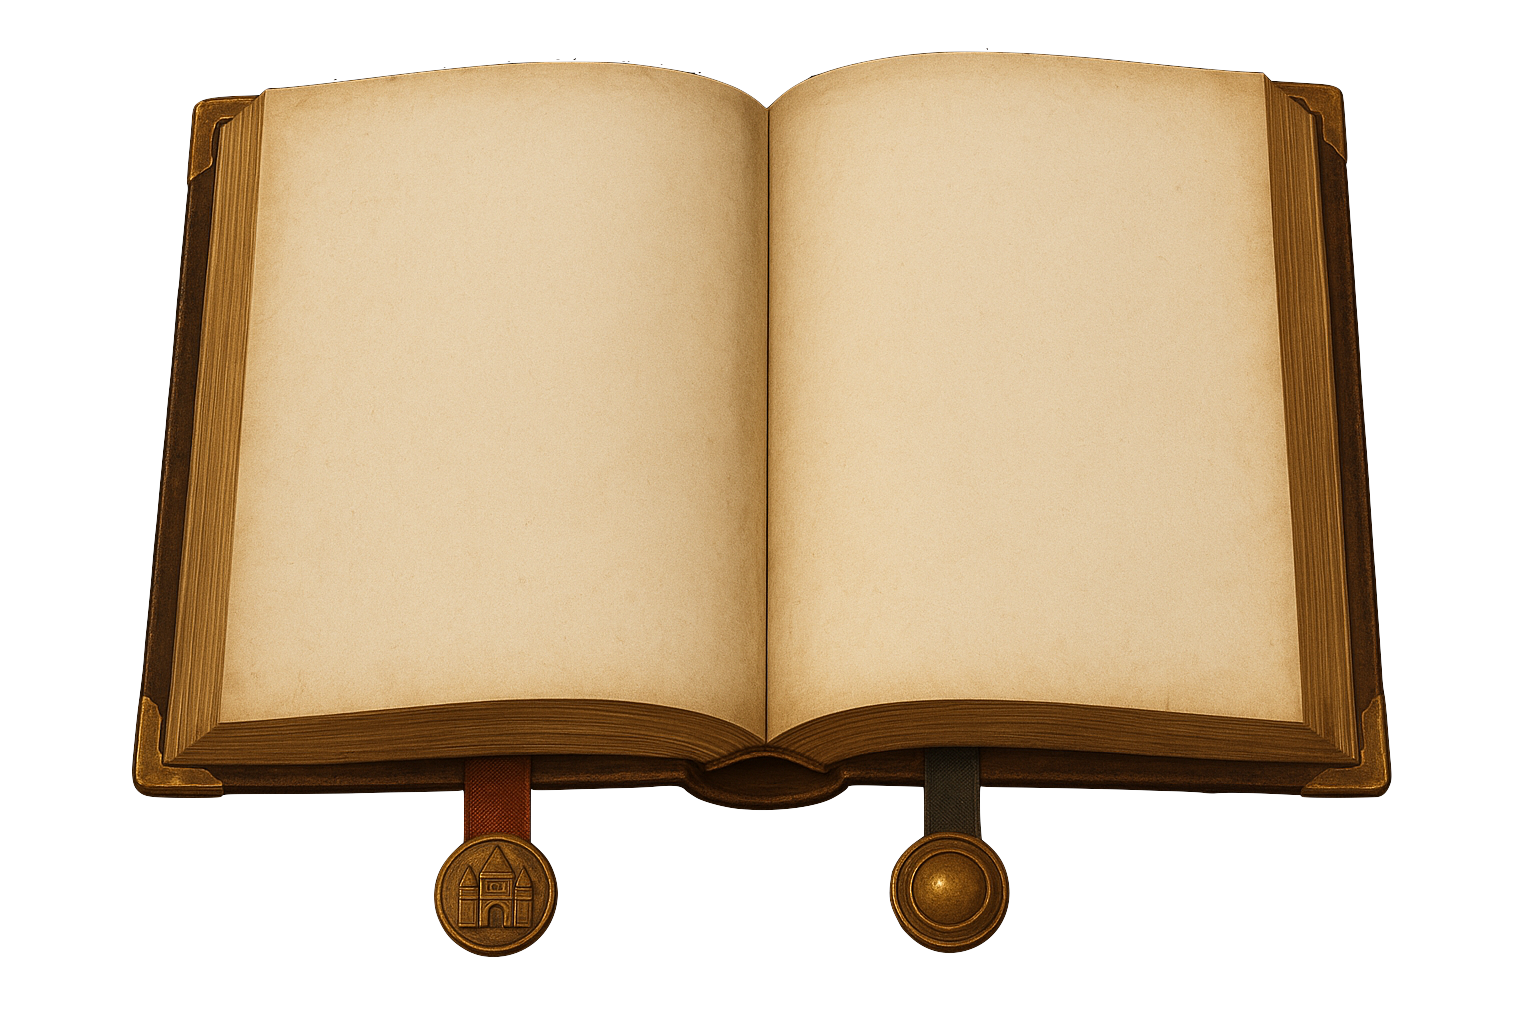
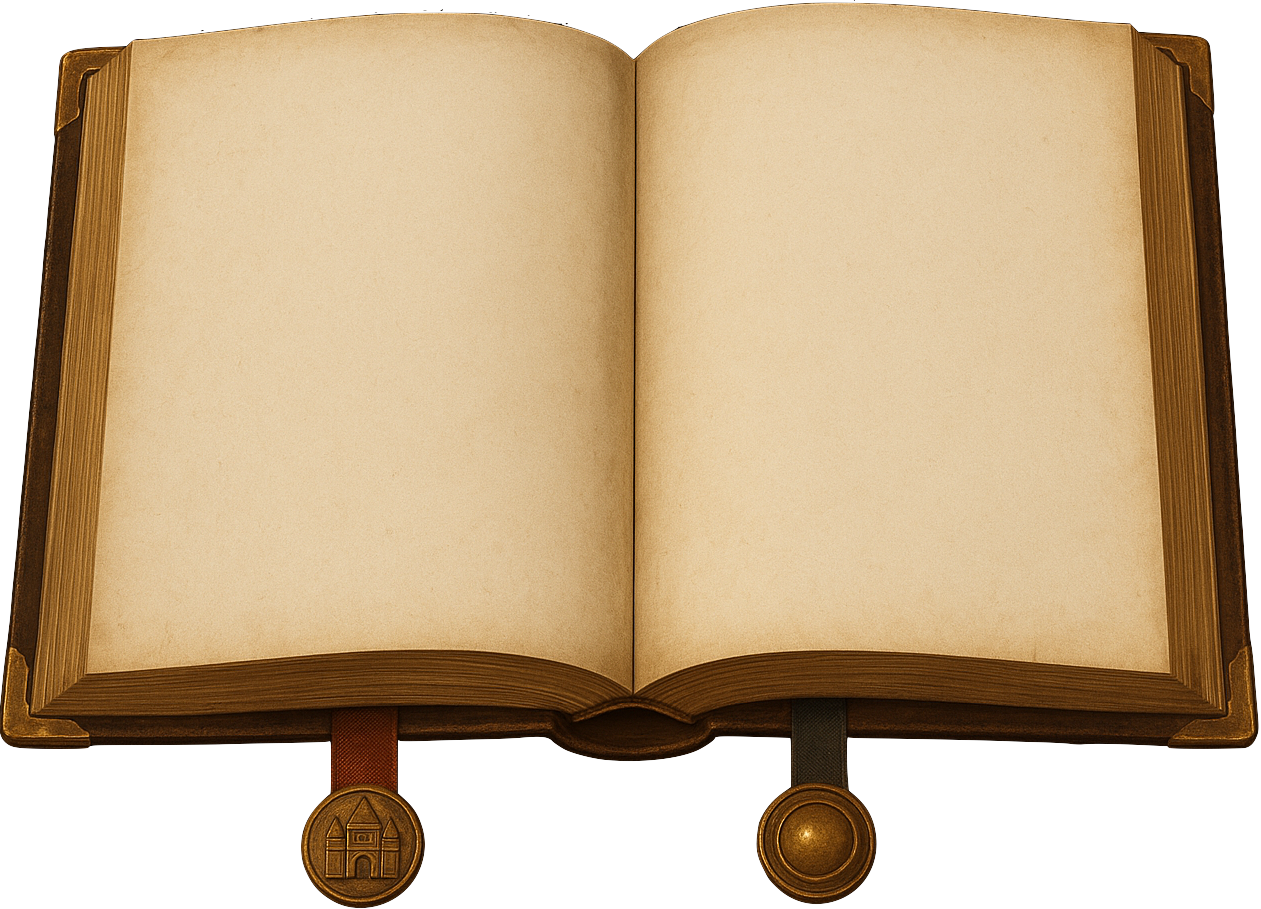
Update FlipBook component layout and styles: adjust dimensions, add container styling, and remove shadow effects

diff --git a/src/App.css b/src/App.css
@@ -1,75 +1,94 @@
 .App {
-  text-align: center;
-  background-color: gray;
-  min-height: 100vh;
-  display: flex;
-  align-items: center;
-  justify-content: center;
-  padding: 20px;
-  box-sizing: border-box;
+    text-align: center;
+    background-color: gray;
+    min-height: 100vh;
+    display: flex;
+    align-items: center;
+    justify-content: center;
+    padding: 20px;
+    box-sizing: border-box;
 }
 
 .App-logo {
-  height: 40vmin;
-  pointer-events: none;
+    height: 40vmin;
+    pointer-events: none;
 }
 
 @media (prefers-reduced-motion: no-preference) {
-  .App-logo {
-    animation: App-logo-spin infinite 20s linear;
-  }
+    .App-logo {
+        animation: App-logo-spin infinite 20s linear;
+    }
 }
 
 .App-header {
-  background-color: #282c34;
-  min-height: 100vh;
-  display: flex;
-  flex-direction: column;
-  align-items: center;
-  justify-content: center;
-  font-size: calc(10px + 2vmin);
-  color: white;
+    background-color: #282c34;
+    min-height: 100vh;
+    display: flex;
+    flex-direction: column;
+    align-items: center;
+    justify-content: center;
+    font-size: calc(10px + 2vmin);
+    color: white;
 }
 
 .App-link {
-  color: #61dafb;
+    color: #61dafb;
 }
 
 .pageStyle {
-  color: yellow;
-  padding: 20px;
-  display: flex;
-  flex-direction: column;
-  align-items: center;
-  justify-content: center;
-  font-size: 24px;
-  font-weight: bold;
-  width: 100%;
-  height: 100%;
-  box-sizing: border-box;
-  min-height: 400px;
-  background-position: center;
-  background-repeat: no-repeat;
-  background-size: cover;
-  background-color: #f4e4bc;
+    color: yellow;
+    padding-top: 30px;
+    padding-bottom: 30px;
+    display: flex;
+    flex-direction: column;
+    align-items: center;
+    justify-content: center;
+    font-size: 24px;
+    font-weight: bold;
+    width: 100%;
+    height: 100%;
+    box-sizing: border-box;
+    min-height: 370px;
+    background-position: center;
+    background-repeat: no-repeat;
+    background-size: cover;
 }
+
 .oddPage {
-  background-image: url('./PageOdd.png');
+    background-image: url('./PageOdd.png');
+    padding-left: 30px;
+    padding-right: 5px;
 }
 
 .evenPage {
-  background-image: url('./PageEven.png');
+    background-image: url('./PageEven.png');
+    padding-left: 5px;
+    padding-right: 30px;
+}
+
+.flipbook-container {
+    width: 780px;
+    height: 600px;
+    background-image: url('./opened-book.png');
+    background-size: contain;
+    background-repeat: no-repeat;
+    background-position: center;
+    display: flex;
+    align-items: center;
+    justify-content: center;
+    position: relative;
 }
 
 .flipbook {
-  box-shadow: 0 10px 30px rgba(0, 0, 0, 0.3);
+    /*box-shadow: 0 10px 30px rgba(0, 0, 0, 0.3);*/
+    margin-bottom: 135px;
 }
 
 @keyframes App-logo-spin {
-  from {
-    transform: rotate(0deg);
-  }
-  to {
-    transform: rotate(360deg);
-  }
+    from {
+        transform: rotate(0deg);
+    }
+    to {
+        transform: rotate(360deg);
+    }
 }

diff --git a/src/FlipBook.tsx b/src/FlipBook.tsx
@@ -29,8 +29,8 @@ interface FlipBookPageProps {
 }
 
 const FlipBook: React.FC<FlipBookPageProps> = ({
-  width = 320,
-  height = 480,
+  width = 420,
+  height = 380,
   children,
   className = "flipbook",
   style = {},
@@ -38,11 +38,11 @@ const FlipBook: React.FC<FlipBookPageProps> = ({
   minHeight,
   maxWidth,
   maxHeight,
-  maxShadowOpacity = 0.5,
+  maxShadowOpacity = 0,
   showCover = false,
   mobileScrollSupport = true,
   startPage = 0,
-  drawShadow = true,
+  drawShadow = false,
   flippingTime = 1000,
   usePortrait = false,
   startZIndex = 0,
@@ -55,33 +55,35 @@ const FlipBook: React.FC<FlipBookPageProps> = ({
   size = "fixed"
 }) => {
   return (
-    <HTMLFlipBook
-      width={width}
-      height={height}
-      size={size}
-      minWidth={minWidth || width}
-      minHeight={minHeight || height}
-      maxWidth={maxWidth || width * 2}
-      maxHeight={maxHeight || height}
-      maxShadowOpacity={maxShadowOpacity}
-      showCover={showCover}
-      mobileScrollSupport={mobileScrollSupport}
-      className={className}
-      style={style}
-      startPage={startPage}
-      drawShadow={drawShadow}
-      flippingTime={flippingTime}
-      usePortrait={usePortrait}
-      startZIndex={startZIndex}
-      autoSize={autoSize}
-      clickEventForward={clickEventForward}
-      useMouseEvents={useMouseEvents}
-      swipeDistance={swipeDistance}
-      showPageCorners={showPageCorners}
-      disableFlipByClick={disableFlipByClick}
-    >
-      {children}
-    </HTMLFlipBook>
+    <div className="flipbook-container">
+      <HTMLFlipBook
+        width={width}
+        height={height}
+        size={size}
+        minWidth={minWidth || width}
+        minHeight={minHeight || height}
+        maxWidth={maxWidth || width }
+        maxHeight={maxHeight || height}
+        maxShadowOpacity={maxShadowOpacity}
+        showCover={showCover}
+        mobileScrollSupport={mobileScrollSupport}
+        className={className}
+        style={style}
+        startPage={startPage}
+        drawShadow={drawShadow}
+        flippingTime={flippingTime}
+        usePortrait={usePortrait}
+        startZIndex={startZIndex}
+        autoSize={autoSize}
+        clickEventForward={clickEventForward}
+        useMouseEvents={useMouseEvents}
+        swipeDistance={swipeDistance}
+        showPageCorners={showPageCorners}
+        disableFlipByClick={disableFlipByClick}
+      >
+        {children}
+      </HTMLFlipBook>
+    </div>
   );
 };
 

diff --git a/src/App.tsx b/src/App.tsx
@@ -7,9 +7,9 @@ function App() {
   return (
     <div className="App">
       <FlipBook
-        width={320}
-        height={480}
-        maxWidth={640}
+        width={333}
+        height={429}
+        maxWidth={860}
       >
         <FlipBookPage pageNum={1} />
         <FlipBookPage pageNum={2} />
